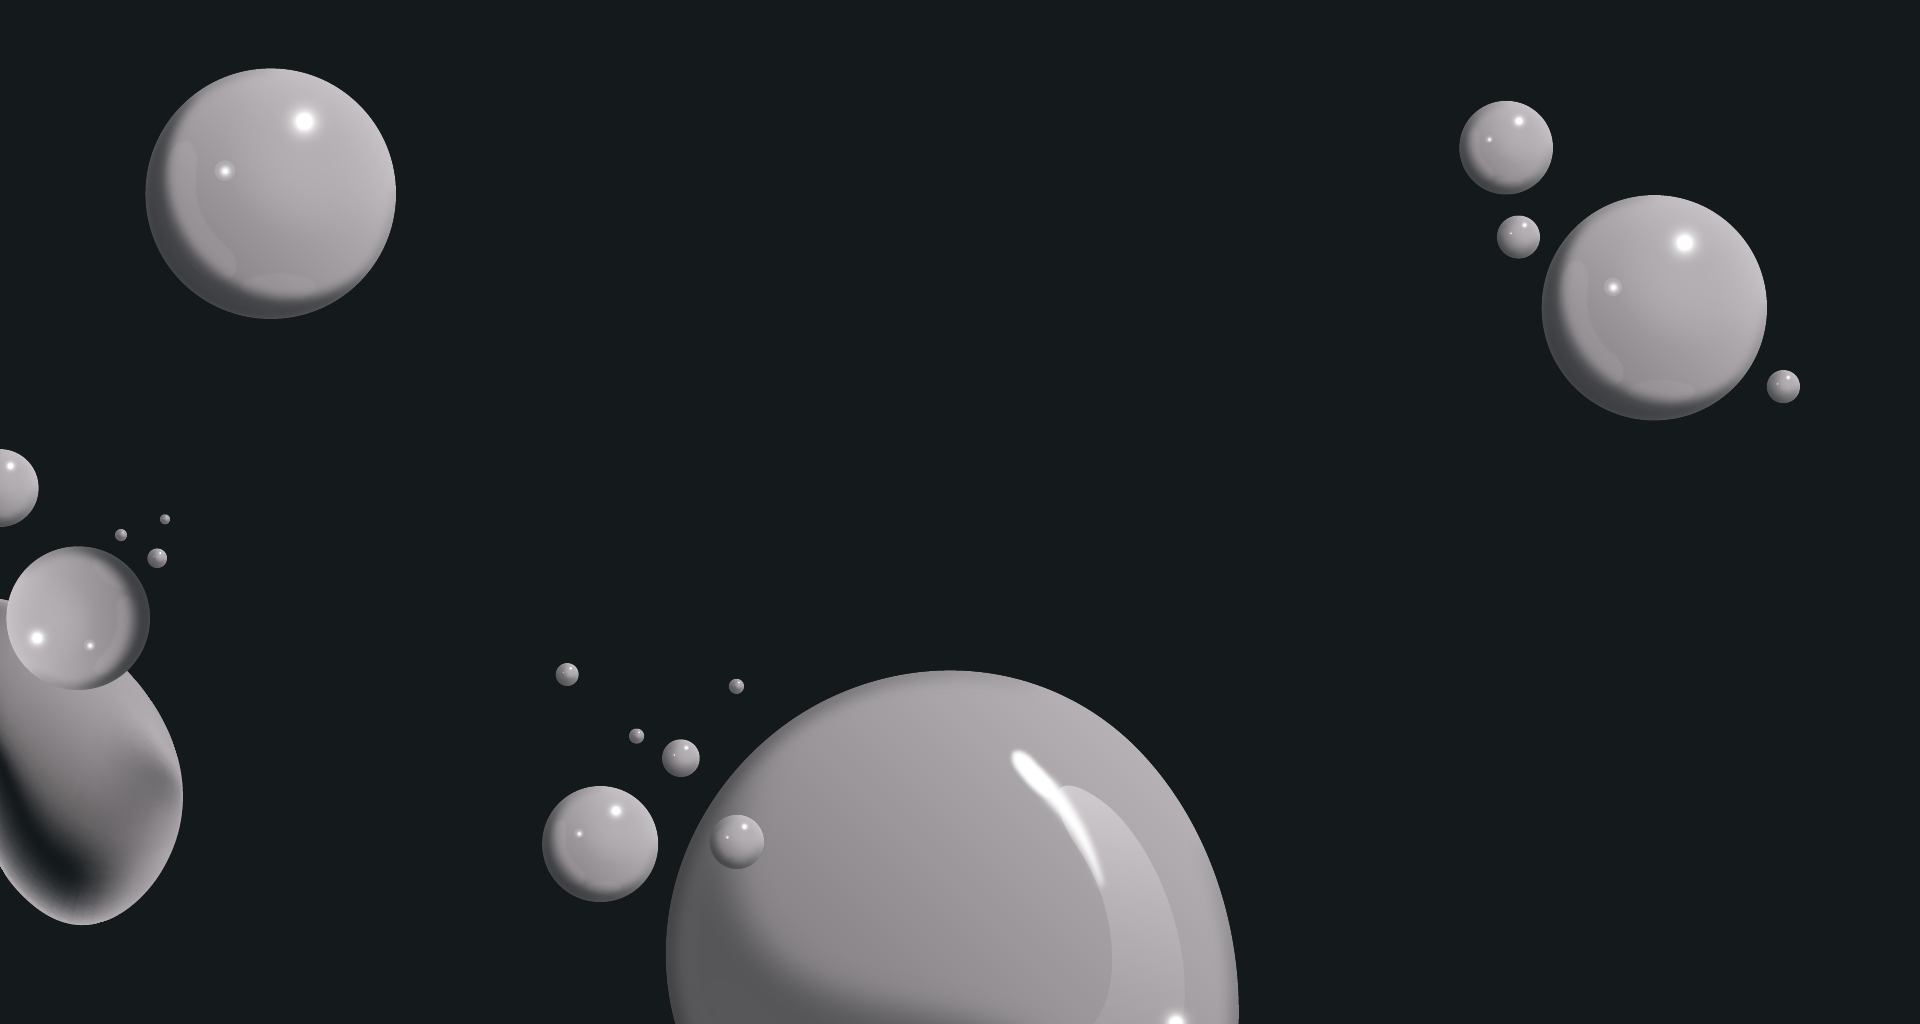
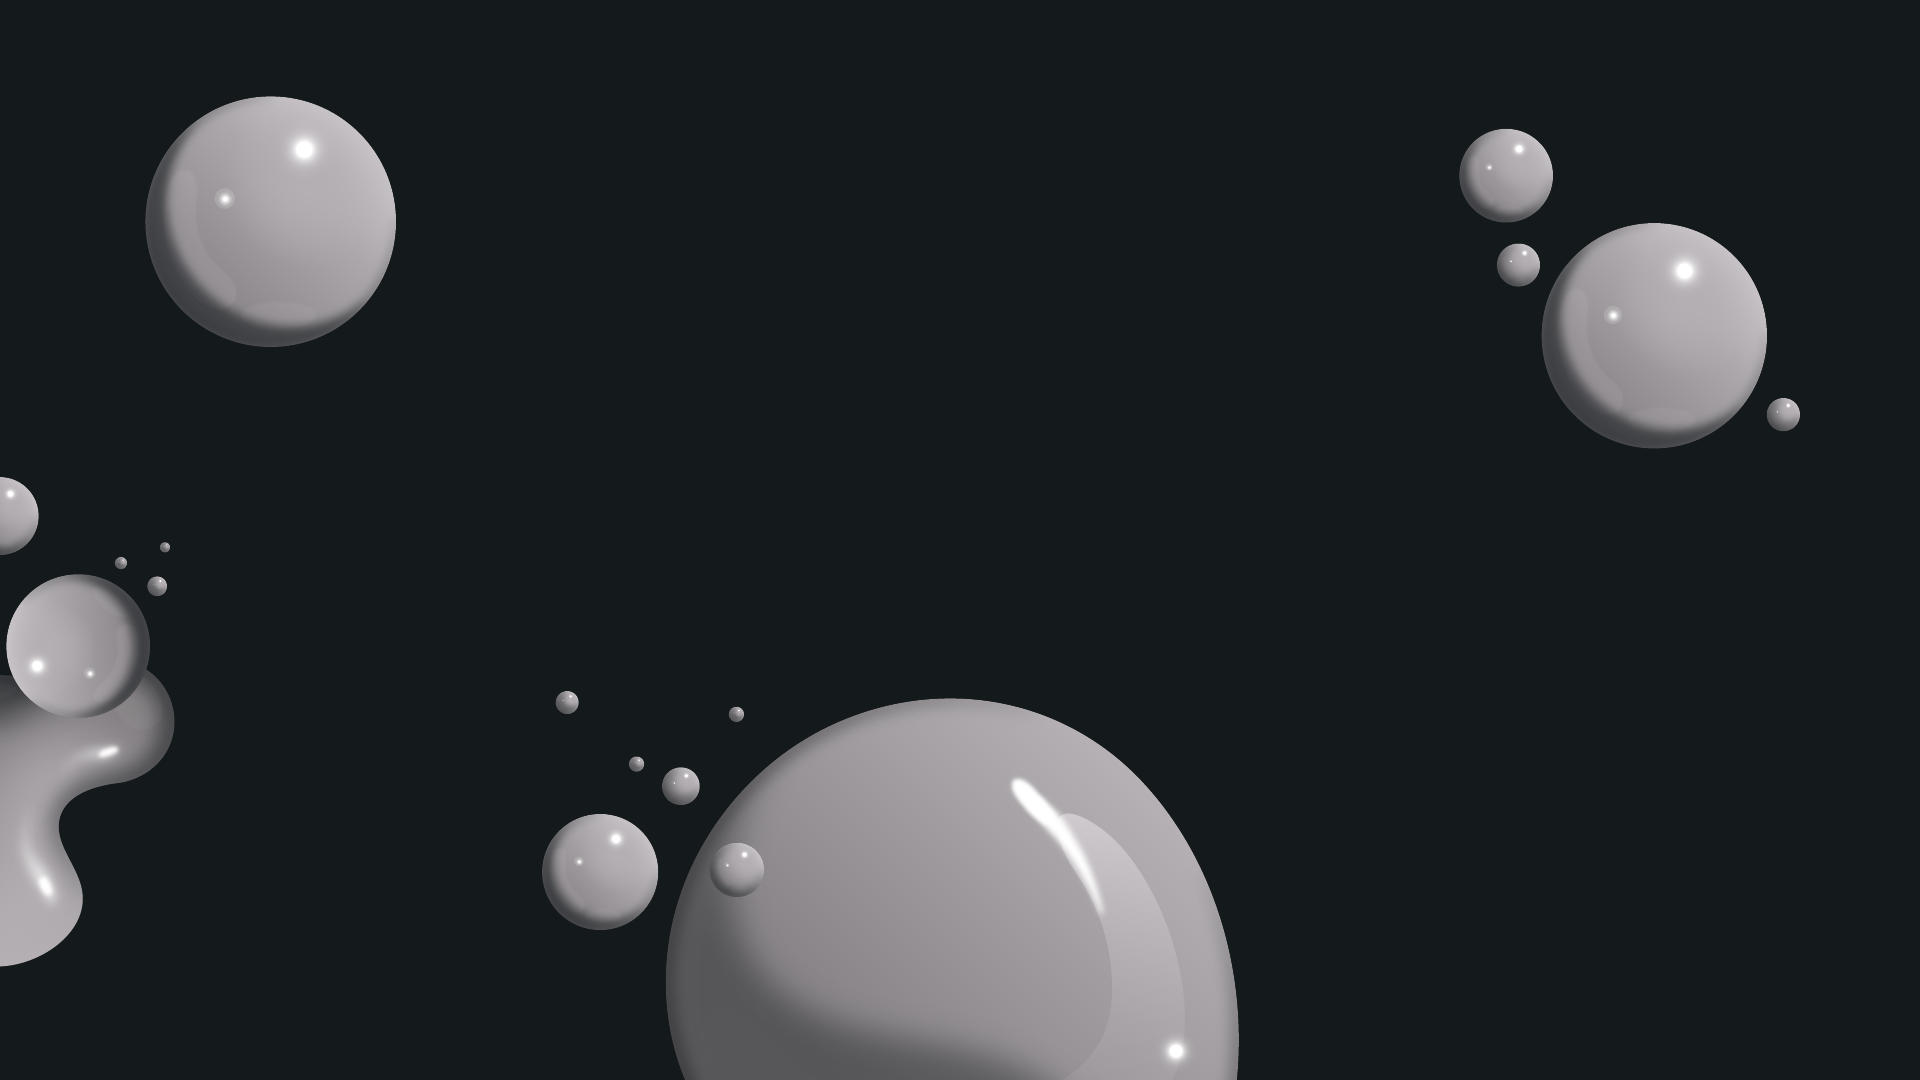
* pozadine generalni pokrovitelj i partneri

diff --git a/style.css b/style.css
@@ -760,7 +760,8 @@ img {
 #generalni-pokrovitelj {
   position: relative;
   height: 100vh;
-  background: url(img/partneri1.png) no-repeat;
+  background: url(img/generalniPokrovitelj.png) no-repeat;
+  background-size: cover;
 }
 
 #generalni-pokrovitelj h2 {
